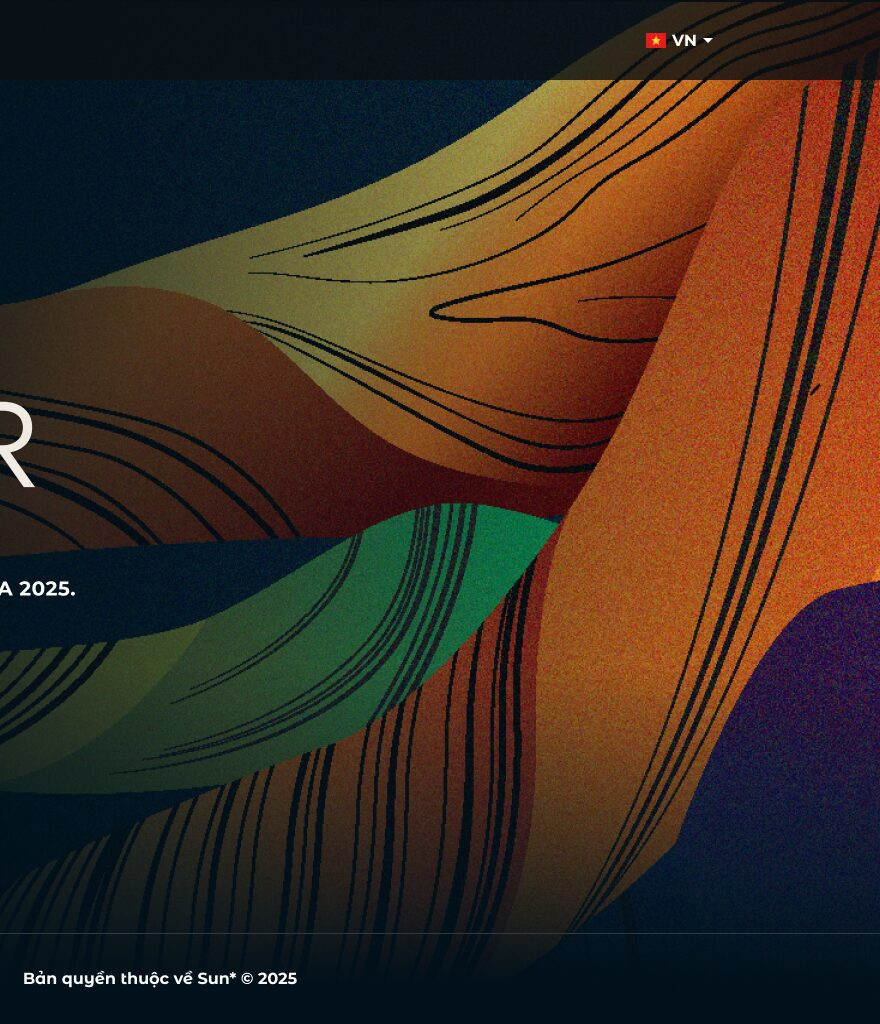
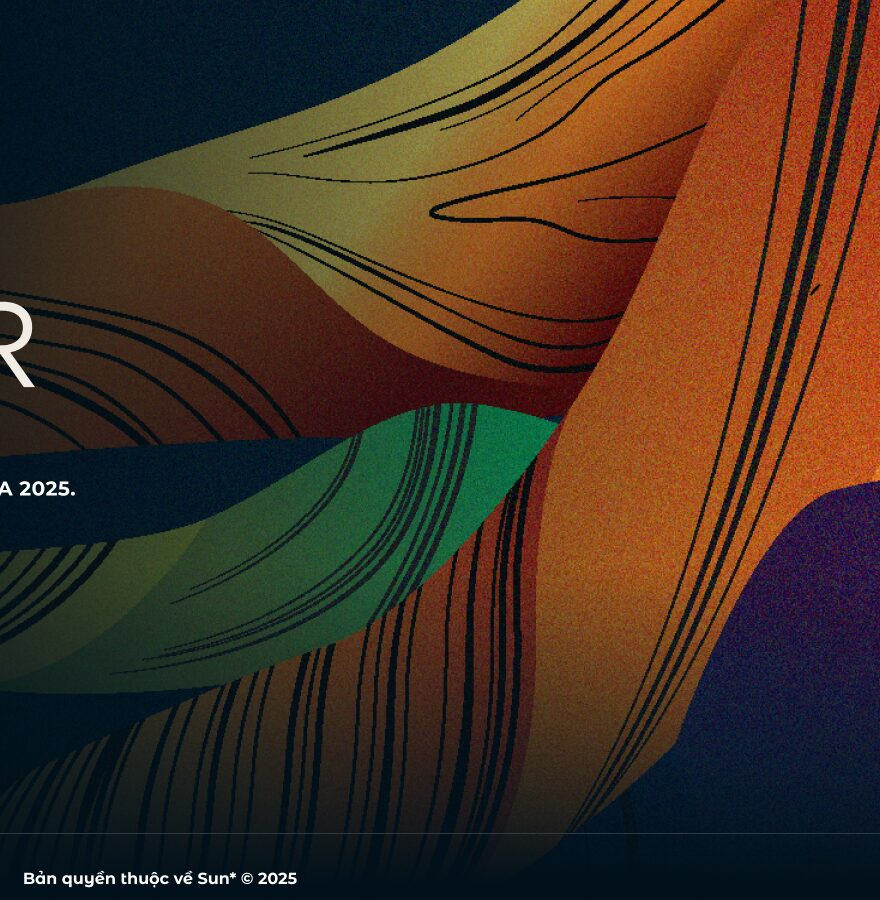
fix(login): exclude header strip from bg crop to fix ghost VN switcher
At tablet/mobile, re-cropped background.jpg to skip the design's top 100px header strip where the VN switcher appeared. Adjusted bg div positioning with top-20 bottom-12 to maintain proper spacing. Verified ghost switcher removed at 1440/768/375 viewports.

diff --git a/app/login/page.tsx b/app/login/page.tsx
@@ -26,11 +26,11 @@ export default async function LoginPage({ searchParams }: Props) {
       className="relative isolate flex min-h-screen flex-col overflow-hidden text-white"
       style={{ backgroundColor: "#00101A" }}
     >
-      {/* Background painterly artwork — cropped to right portion (text area
-          excluded to avoid ghost-text duplication when HTML text overlays). */}
+      {/* Background painterly artwork — cropped to artwork-only region of design
+          (text + header strip excluded to avoid ghost-element duplication). */}
       <div
         aria-hidden
-        className="pointer-events-none absolute inset-y-0 right-0 -z-20 w-[75%] bg-cover bg-right bg-no-repeat"
+        className="pointer-events-none absolute right-0 top-20 bottom-12 -z-20 w-[75%] bg-cover bg-right bg-no-repeat"
         style={{ backgroundImage: `url(${ASSETS}/background.jpg)` }}
       />
       {/* Horizontal blend: dark navy left, transparent right (per design node 662:14392) */}